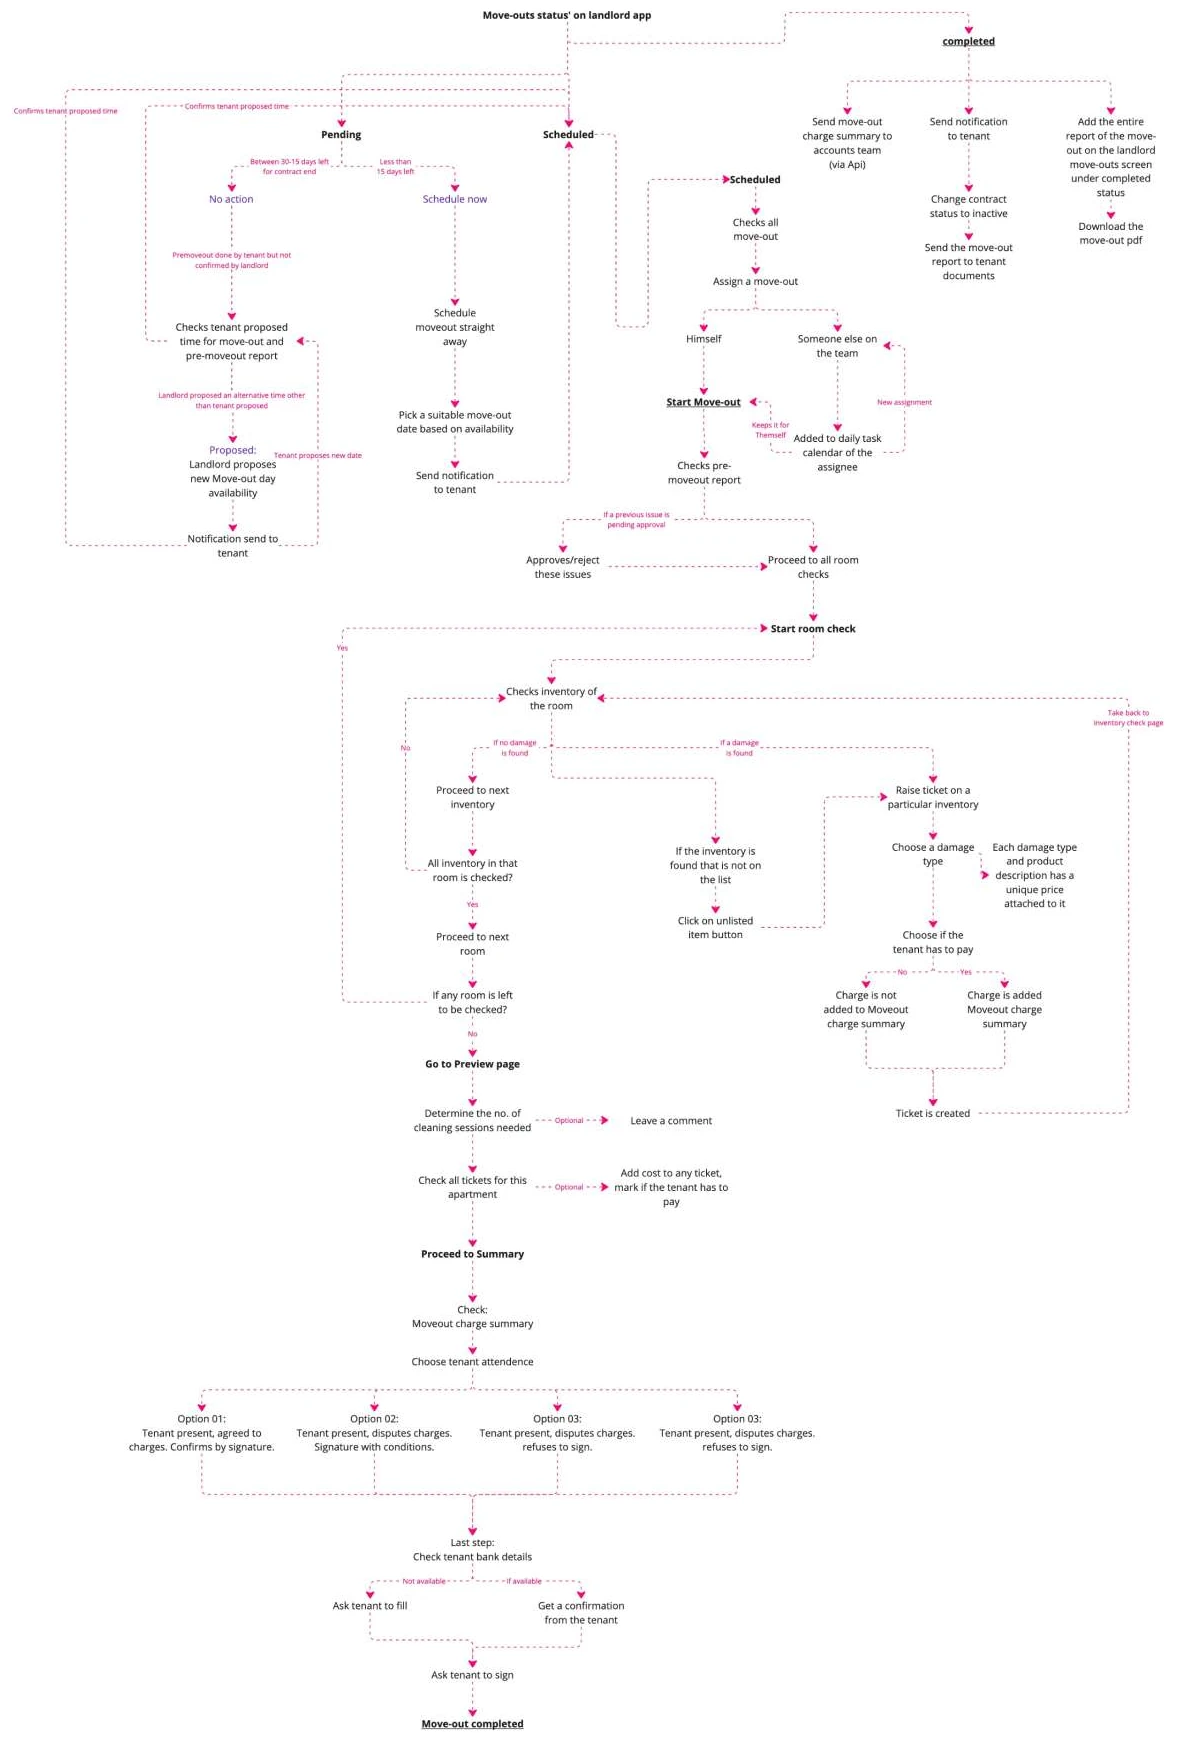
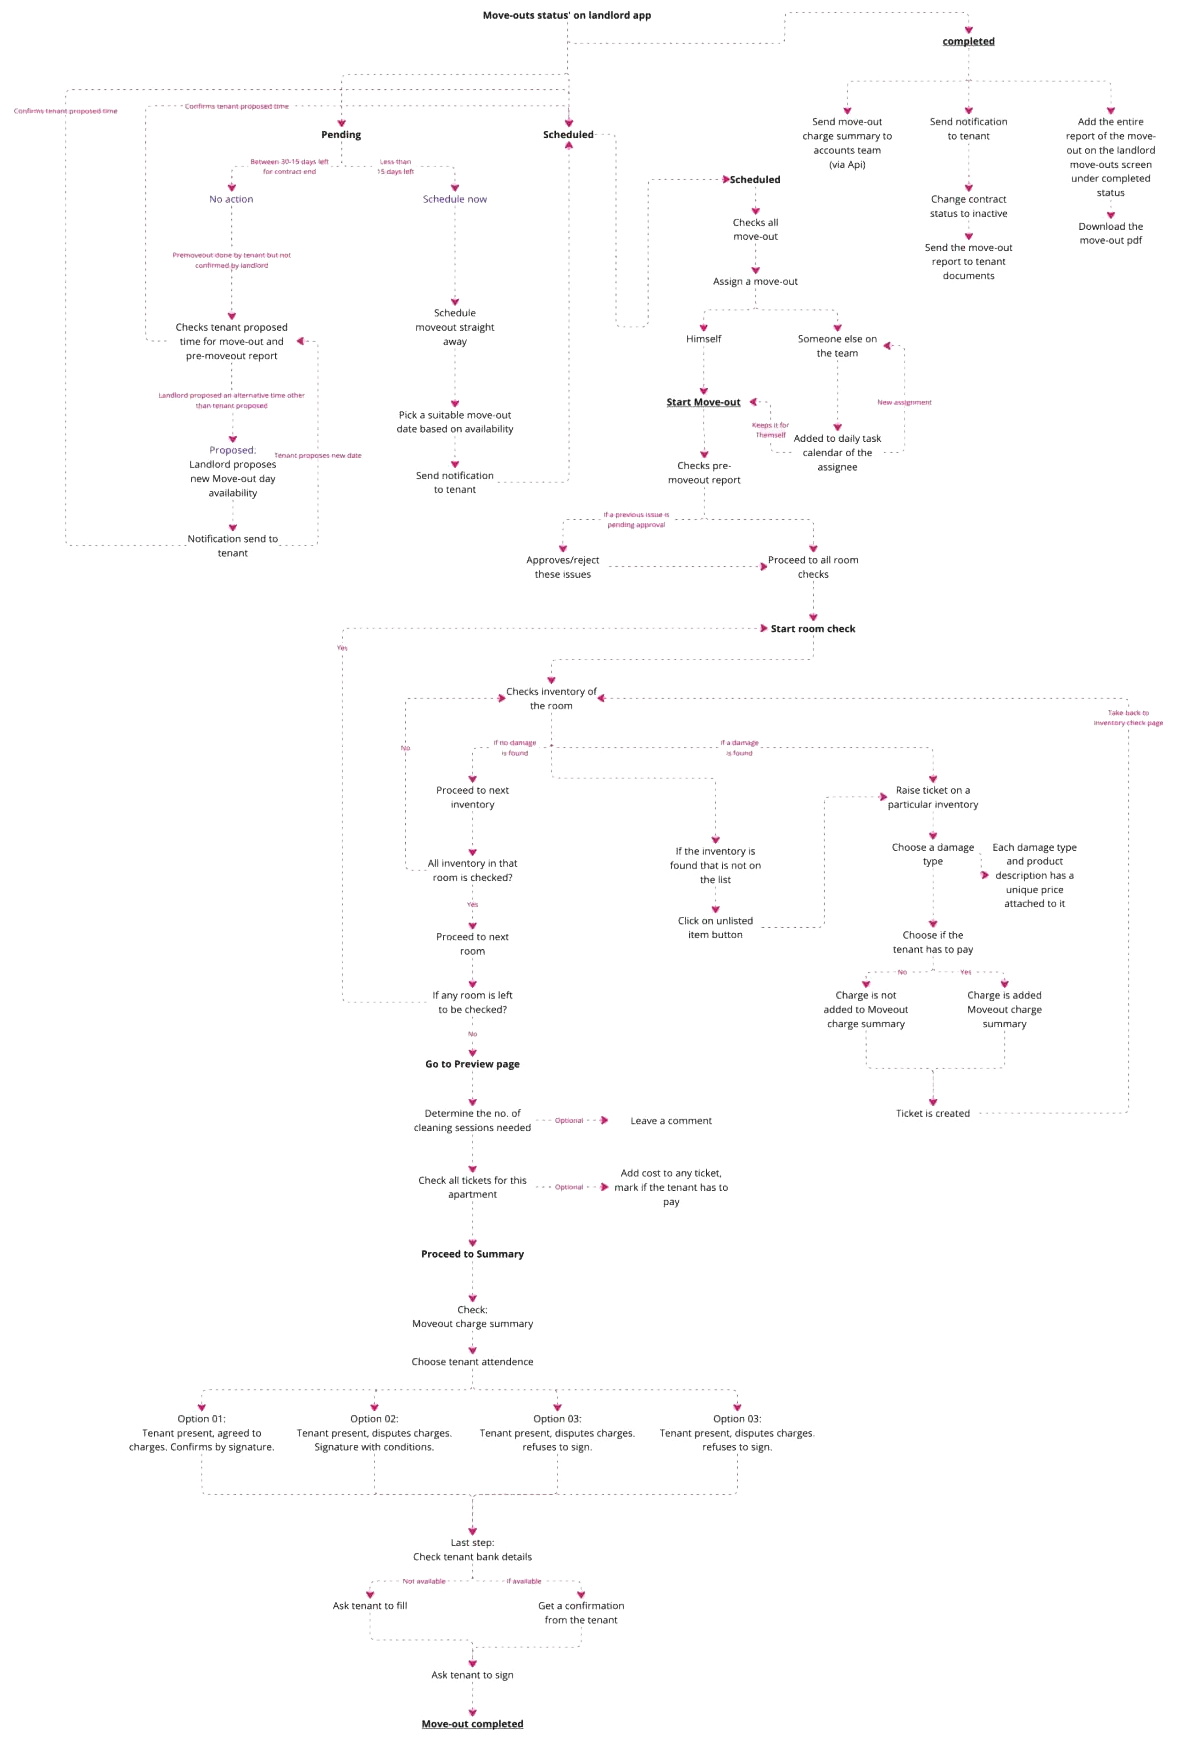
Flowcharts: transparent background and dark-mode flip

diff --git a/src/app/work/landlord/page.tsx b/src/app/work/landlord/page.tsx
@@ -918,6 +918,8 @@ export default function MoveOutCaseStudy() {
           h={935}
           alt="Tenant app flow: contract end date check, pre-moveout notification, time slot selection, pre-check, and landlord confirmation"
           minWidth={720}
+          frame={false}
+          invert
           className="mt-6"
         />
         <H3 className="mt-14">Wireframe: Landlord app</H3>
@@ -927,6 +929,8 @@ export default function MoveOutCaseStudy() {
           h={1745}
           alt="Landlord app flow: pending, scheduled and completed move-outs, room checks, damage tickets, charge summary and signatures"
           minWidth={900}
+          frame={false}
+          invert
           className="mt-6"
         />
       </Section>

diff --git a/src/components/case-study/ui.tsx b/src/components/case-study/ui.tsx
@@ -461,7 +461,8 @@ export function ScrollFig({
   minWidth = 760,
   className,
   frame = true,
-}: ImgProps & { minWidth?: number; frame?: boolean }) {
+  invert = false,
+}: ImgProps & { minWidth?: number; frame?: boolean; invert?: boolean }) {
   return (
     <div className={className}>
       <div
@@ -479,7 +480,7 @@ export function ScrollFig({
             height={h}
             alt={alt}
             sizes="(min-width: 1152px) 1104px, 1200px"
-            className="h-auto w-full"
+            className={cn("h-auto w-full", invert && darkInvert)}
           />
         </div>
       </div>

diff --git a/src/app/work/gamification/page.tsx b/src/app/work/gamification/page.tsx
@@ -675,6 +675,8 @@ export default function GamificationCaseStudy() {
           h={1198}
           alt="Gamification user journey flowchart covering goals, challenges, levels, leaderboard, badges and streaks"
           minWidth={900}
+          frame={false}
+          invert
           className="mt-10"
         />
       </Section>
